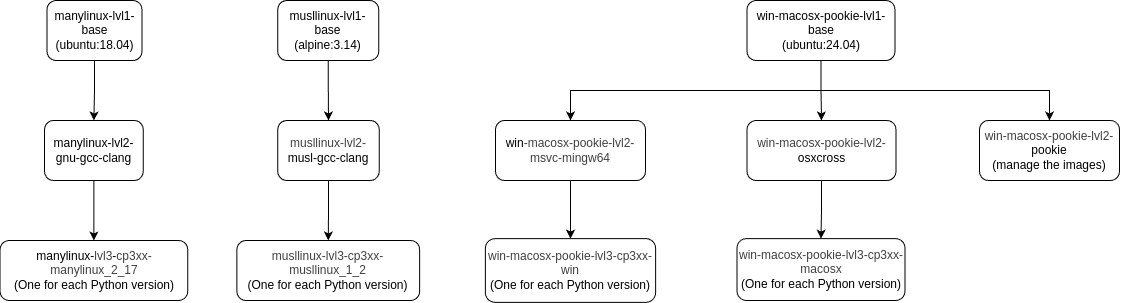
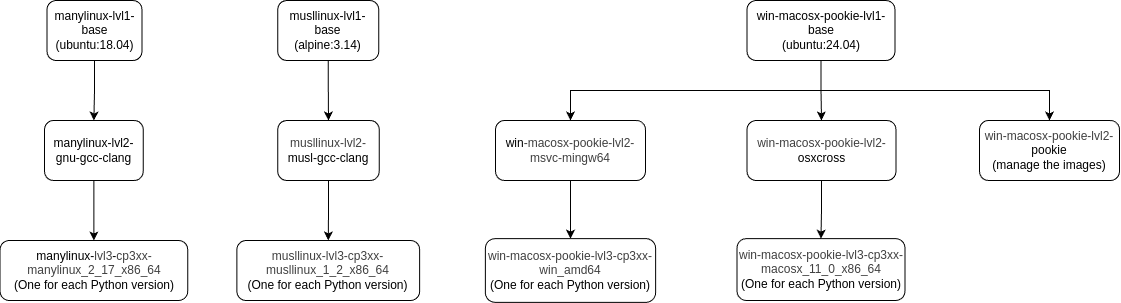
Change le 3 images name

diff --git a/src/docker_images_builder.py b/src/docker_images_builder.py
@@ -109,10 +109,10 @@ def build_docker_images(targets, logfile, python_versions_dic):
             # level 3
             for minor, target_data in python_versions_dic.items():
 
-                general_image_name = "manylinux-lvl3-cp3xx-manylinux_2_17"
+                general_image_name = "manylinux-lvl3-cp3xx-manylinux_2_17_x86_64"
 
                 py_version_nodot = '3' + minor
-                image_name = f"manylinux-lvl3-cp{py_version_nodot}-manylinux_2_17"
+                image_name = f"manylinux-lvl3-cp{py_version_nodot}-manylinux_2_17_x86_64"
 
                 python_url = target_data[target]["url"]
 
@@ -133,10 +133,10 @@ def build_docker_images(targets, logfile, python_versions_dic):
             # level 3
             for minor, target_data in python_versions_dic.items():
 
-                general_image_name = "musllinux-lvl3-cp3xx-musllinux_1_2"
+                general_image_name = "musllinux-lvl3-cp3xx-musllinux_1_2_x86_64"
 
                 py_version_nodot = '3' + minor
-                image_name = f"musllinux-lvl3-cp{py_version_nodot}-musllinux_1_2"
+                image_name = f"musllinux-lvl3-cp{py_version_nodot}-musllinux_1_2_x86_64"
 
                 python_url = target_data[target]["url"]
 
@@ -156,10 +156,10 @@ def build_docker_images(targets, logfile, python_versions_dic):
             # level 3
             for minor, target_data in python_versions_dic.items():
 
-                general_image_name = "win-macosx-pookie-lvl3-cp3xx-win"
+                general_image_name = "win-macosx-pookie-lvl3-cp3xx-win_amd64"
 
                 py_version_nodot = '3' + minor
-                image_name = f"win-macosx-pookie-lvl3-cp{py_version_nodot}-win"
+                image_name = f"win-macosx-pookie-lvl3-cp{py_version_nodot}-win_amd64"
 
                 python_url = target_data[target]["url"]
 
@@ -179,10 +179,10 @@ def build_docker_images(targets, logfile, python_versions_dic):
             # level 3
             for minor, target_data in python_versions_dic.items():
 
-                general_image_name = "win-macosx-pookie-lvl3-cp3xx-macosx"
+                general_image_name = "win-macosx-pookie-lvl3-cp3xx-macosx_11_0_x86_64"
 
                 py_version_nodot = '3' + minor
-                image_name = f"win-macosx-pookie-lvl3-cp{py_version_nodot}-macosx"
+                image_name = f"win-macosx-pookie-lvl3-cp{py_version_nodot}-macosx_11_0_x86_64"
 
                 python_url = target_data[target]["url"]
 

diff --git a/src/docker_images_runner.py b/src/docker_images_runner.py
@@ -171,7 +171,7 @@ def run_docker_images(targets, logfile, python_versions_dic, build, test, linux_
 
             if target == 'manylinux_2_17_x86_64':
 
-                image_name = f"manylinux-lvl3-cp{py_version_nodot}-manylinux_2_17"
+                image_name = f"manylinux-lvl3-cp{py_version_nodot}-manylinux_2_17_x86_64"
                 original_dist_target = "linux_x86_64"
                 new_dist_target = "manylinux_2_17_x86_64.manylinux2014_x86_64"
                 if linux_compiler == 'gcc':
@@ -204,7 +204,7 @@ def run_docker_images(targets, logfile, python_versions_dic, build, test, linux_
 
             if target == 'musllinux_1_2_x86_64':
 
-                image_name = f"musllinux-lvl3-cp{py_version_nodot}-musllinux_1_2"
+                image_name = f"musllinux-lvl3-cp{py_version_nodot}-musllinux_1_2_x86_64"
                 original_dist_target = "linux_x86_64"
                 new_dist_target = "musllinux_1_2_x86_64"
                 if linux_compiler == 'gcc':
@@ -237,7 +237,7 @@ def run_docker_images(targets, logfile, python_versions_dic, build, test, linux_
 
             if target == 'win_amd64':
 
-                image_name = f"win-macosx-pookie-lvl3-cp{py_version_nodot}-win"
+                image_name = f"win-macosx-pookie-lvl3-cp{py_version_nodot}-win_amd64"
 
                 # build the library
                 if build != None:
@@ -250,7 +250,7 @@ def run_docker_images(targets, logfile, python_versions_dic, build, test, linux_
 
             if target == 'macosx_11_0_x86_64':
 
-                image_name = f"win-macosx-pookie-lvl3-cp{py_version_nodot}-macosx"
+                image_name = f"win-macosx-pookie-lvl3-cp{py_version_nodot}-macosx_11_0_x86_64"
                 new_base_os = "darwin"
                 new_dist_target = "macosx_11_0_x86_64"
 
